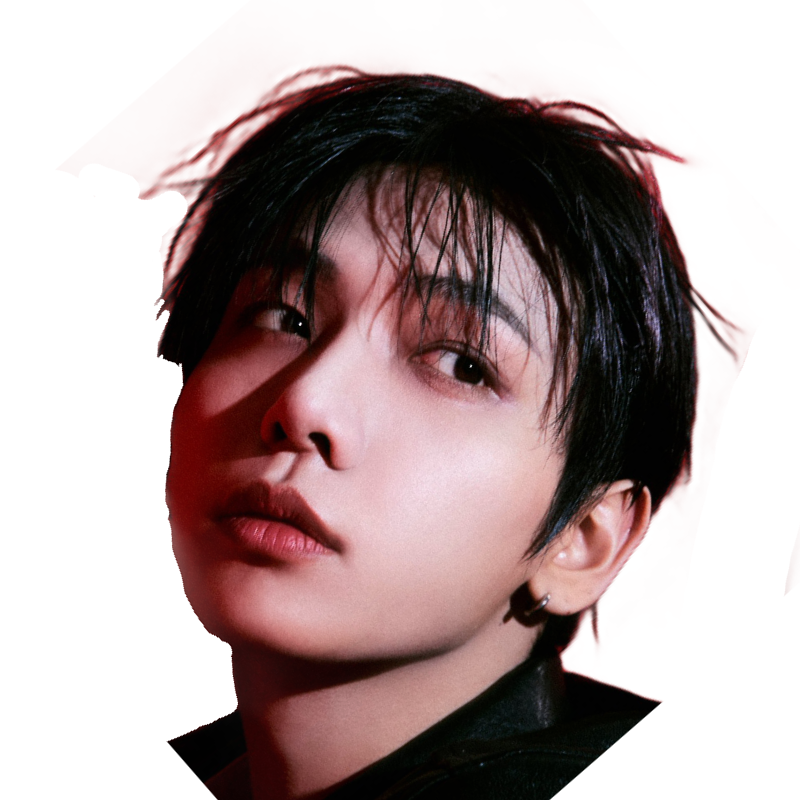
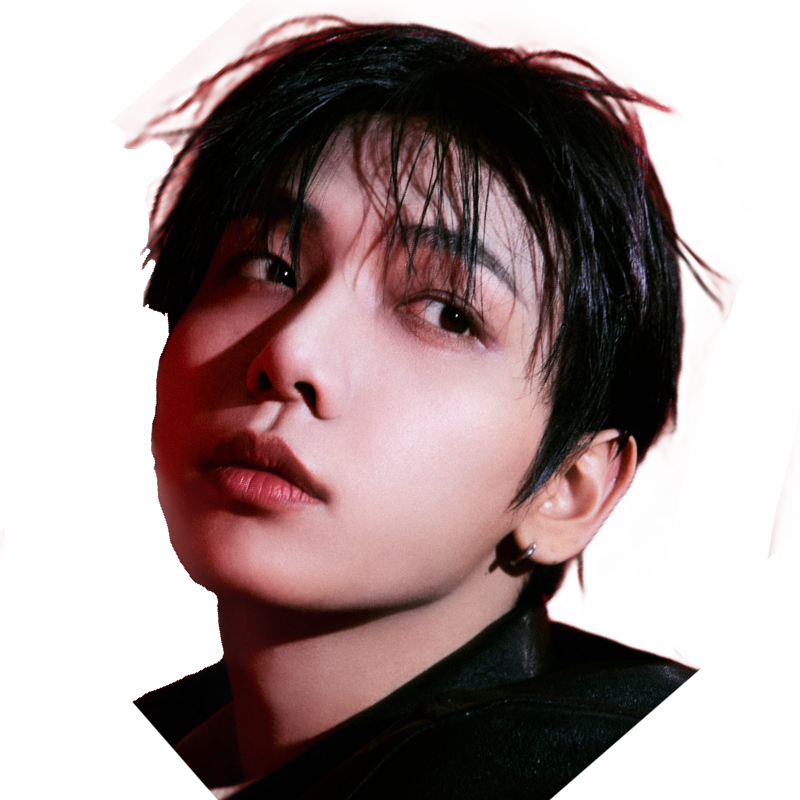
Update ANIMAL photos

diff --git a/js/ranking.js b/js/ranking.js
@@ -4,7 +4,7 @@
 /* ========================================= */
 
 /* Bump when the avatar images change, to bust the browser/Pages cache. */
-const PHOTO_VER = 128;
+const PHOTO_VER = 129;
 window.PHOTO_VER = PHOTO_VER;
 
 const Ranking = {
